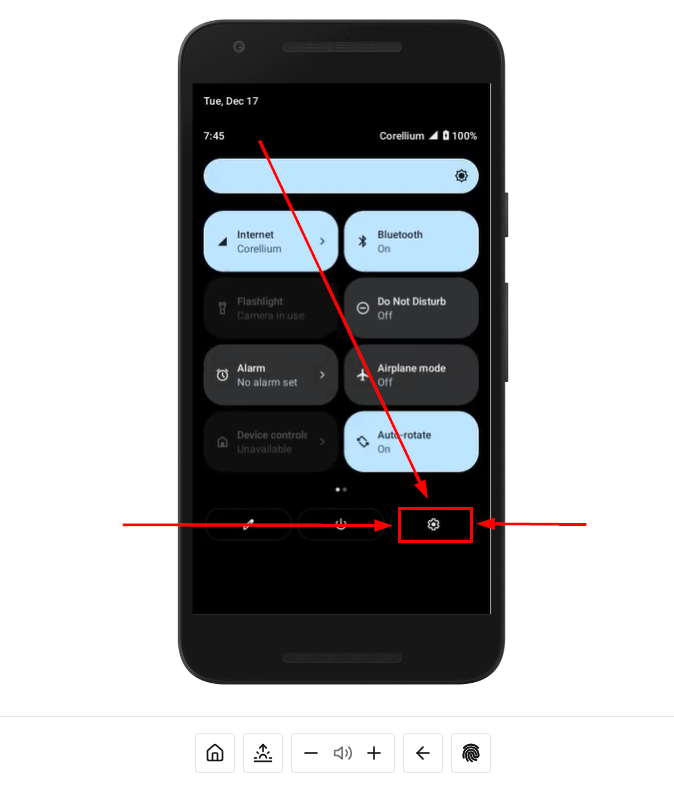
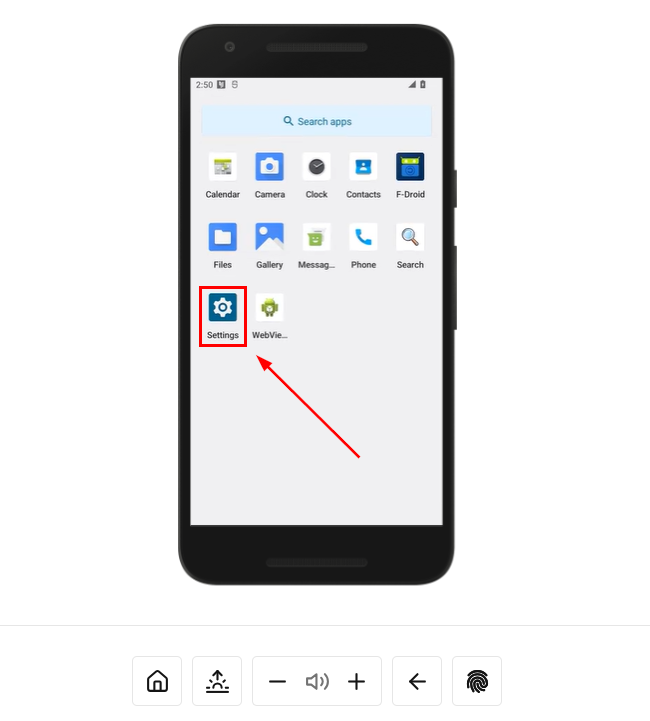
Lab 4 updates

diff --git a/Labs/LAB_04_Burp_Proxy_Setup/burp-proxy-setup.md b/Labs/LAB_04_Burp_Proxy_Setup/burp-proxy-setup.md
@@ -10,7 +10,7 @@
 
 In this lab we will set up a web proxy using *Burp Suite's Community Edition* and route traffic from our virtual mobile device in Corellium to our MobileApp VM where Burp resides. Following this setup, we will have the capability to intercept web requests made by a given mobile application, as well as inspecting and/or manipulating network traffic for the purposes of mobile application testing. 
 
-In order to ensure network traffic is routed from the virtual mobile device to our MobileApp VM, we first need to establish a VPN connection between the two hosts. More details on how to setup a VPN connection can be found [here](https://github.com/deruke/AndroidLabs/blob/main/Labs/Corellium_Setup/gettingstarted.md#VPN).
+In order to ensure network traffic is routed from the virtual mobile device to our MobileApp VM, we first need to establish a VPN connection between the two hosts. More details on how to setup a VPN connection can be found [here](/Labs/LAB_00_Corellium_Setup/gettingstarted.md).
 
 ## Open and Configure Burp
 1. With a VPN connection established, return to your MobileApp VM and launch Burp Suite Community Edition by clicking on the Burp icon in the Favorites Toolbar.
@@ -53,43 +53,35 @@ You now have Burp's proxy set up and listening for incoming connections. In the 
 
 ## Configuring the Virtual Mobile Device's Proxy Settings
 
-1.  Navigate back to the Corellium web UI and power on your virtual device.
+1. Navigate back to your Corellium device. We need to navigate to **Settings -> Network & internet** on our virtual device. To do this, start by clicking on the device screen. Then click and drag down from the bottom of the device's screen:
 
-![](images/poweron.png)
+![](images/clickanddragup.png)
 
-2. We need to navigate to **Settings -> Network & internet** on our virtual device. To do this, start by clicking on the device screen. Then click and drag down from the top of the device's screen:
-
-![](images/clickanddragdown.png)
-
-Then click in the middle of the screen, and click and drag down again:
-
-![](images/clickanddragagain.png)
-
-Now hit the settings icon in the bottom left corner:
+Now hit the settings icon:
 
 ![](images/clicksettings.png)
 
-And finally, click **Network & internet**
+Next, click **Network & internet**:
 
 ![](images/networksettings.png)
 
-3. Select **Internet**
+2. Select **Internet**
 
 ![](images/selectinternetsettings.png)
 
-4. Click on the *gear* icon of the *T-Mobile* connection.
+3. Click on the *gear* icon of the *T-Mobile* connection.
 
 ![](images/tmobilesettings.png)
 
-5. Under the settings for the *T-Mobile* interface, scroll down and select **Access Point Names**
+4. Under the settings for the *T-Mobile* interface, scroll down and select **Access Point Names**
 
 ![](images/selectaccesspointnames.png)
 
-6. Select the **T-Mobile US** APN.
+5. Select the **T-Mobile US** APN.
 
 ![](images/selecttmobileus.png)
 
-7. Click on the **Proxy** and **Port** fields and enter the value matching Burp's proxy settings. In our instance, we will set **Proxy** to `10.11.3.2` and the **Port** to `8888`. Then select the *Kebab* icon in the top-right corner and click **Save**.
+6. Click on the **Proxy** and **Port** fields and enter the value matching Burp's proxy settings. In our instance, we will set **Proxy** to `10.11.3.2` and the **Port** to `8888`. Then select the *Kebab* icon in the top-right corner and click **Save**.
 
 ![](images/setproxyandport.png)
 
@@ -98,11 +90,11 @@ And finally, click **Network & internet**
 >[!IMPORTANT]
 >If you don't save the proxy settings you will need to repeat the previous steps.
 
-9. Navigate back to **Settings -> Network & internet -> Internet** and select the icon at the top-right corner to reset the network interface. This will reset the virtual device's network interface which enables the proxy settings to be recognized by the device.
+7. Navigate back to **Settings -> Network & internet -> Internet** and select the icon at the top-right corner to reset the network interface. This will reset the virtual device's network interface which enables the proxy settings to be recognized by the device.
 
 ![](images/resetinternet.png)
 
-## Configure the Virtual Mobile Device's Certificate Trust for the Burp Proxy Certifcate Authority (CA) - User-Trust
+## Configure the Virtual Mobile Device's Certificate Trust for the Burp Proxy Certificate Authority (CA) - User-Trust
 
 The following steps will walk you through the installation of Burp's CA certificate to the User-Trust Store on your Corellium virtual mobile device.
 
@@ -169,7 +161,7 @@ Install a certificate -> CA Certificate:
 
 ![Select Certificate from Downloads](images/cert-installed-1.jpg)
 
-11. To verify that the certifcate was installed to the User-Trust store, navigate to **Settings -> Security -> Encryption & credentials -> Trusted credentials -> User**
+11. To verify that the certificate was installed to the User-Trust store, navigate to **Settings -> Security -> Encryption & credentials -> Trusted credentials -> User**
 
 ![Certificate Trust](images/cert-installed-2.jpg)
 
@@ -199,7 +191,7 @@ Follow the below items to ensure all required steps have been taken:
 
 4. Check the proxy settings on the virtual mobile device to ensure they match that of the **tap0** interface as well as Burp's proxy settings.
 
-5. If everythihg checks out and still no luck:
+5. If everything checks out and still no luck:
     - Reboot the virtual device
     - Cycle the VPN connection (off/on again)
     - If the **tap0** interface receives a different IP than what was previously set in Burp: update the settings in Burp as well as the proxy settings on the device.
